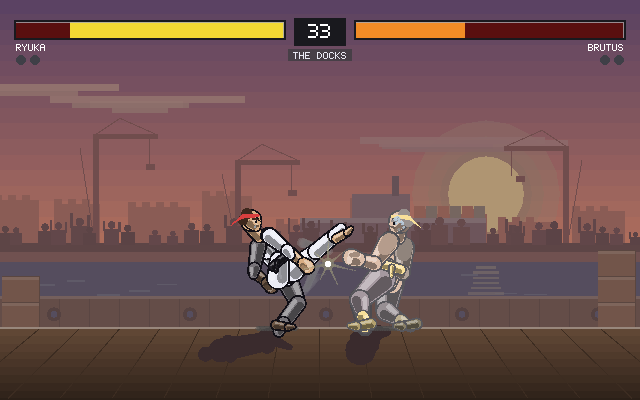
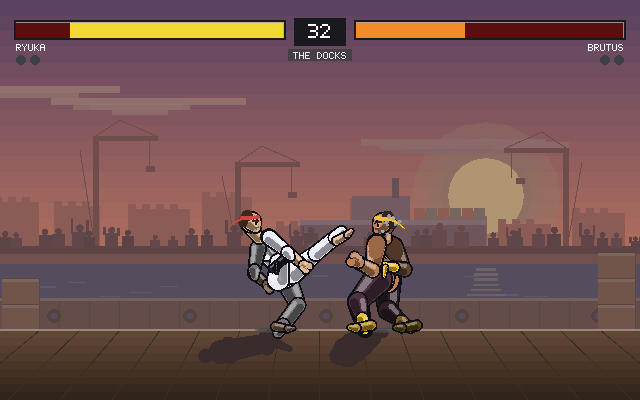
Make the fist a hand and not a glove
The fist was a smooth convex block with a bright band across it and a
bar for a thumb, which is a mitten however it is shaded — a smooth
outline is the whole of what says "glove", and no amount of interior
detail argues with it.

So the outline does the work now. The leading edge is two knuckle
lobes with an ink wedge cut into the split between them, rather than
one unbroken curve. It cannot be three lobes, let alone four: the hand
is eleven pixels across, three of them puts the valleys under a pixel
deep, and the outline — which is nearly two — fills them straight back
in. Two is what the size will carry, and the deep split on a real fist
is the middle one anyway.

The thumb is two segments with a bend in it, because a straight bar is
a strap and a bent one is a digit, and it is drawn LIGHTER than the
fingers behind it. Shading it down to separate it was the reflex and it
is backwards twice over: a thumb wrapped over a fist is the nearest
thing on the hand and catches the most light, and three darker marks on
an eleven-pixel hand come out as one brown smudge, which is exactly
what the first two attempts looked like. One lit shape over a plain one
separates for free. There is a single dark mark left inside the hand,
under the thumb, so it is unambiguously the thumb's own edge.

The wrist wrap is thinner and stops short of the hand. A thick band
running right up to a fist is a boxing glove's cuff, which is the one
thing these hands must not look like.

diff --git a/web/index.html b/web/index.html
@@ -709,7 +709,7 @@
     <a class="card card-brawler" href="brawler/index.html">
       <div class="badge-2p">2<br>PLAYER</div>
       <div class="card-shot-wrap">
-        <img class="card-shot" src="brawler/screenshot.png?v=5" alt="Brawler gameplay">
+        <img class="card-shot" src="brawler/screenshot.png?v=6" alt="Brawler gameplay">
       </div>
       <div class="card-title">BRAWLER</div>
       <div class="card-genre"  data-i18n="brawlerGenre"></div>

diff --git a/crates/brawler/src/draw.rs b/crates/brawler/src/draw.rs
@@ -954,19 +954,50 @@ fn draw_fist(blip: &Blip, h: &Hide, wrist: V, hand: V, b: f32) {
     let at = |f: f32, a: f32| V(hand.0 + fx * f * b + px * a * b,
                                 hand.1 + fy * f * b + py * a * b);
 
-    // The block of the hand: knuckle end forward, heel of the hand back
-    // toward the wrist, and a shade wider than it is long.
-    part(blip, at(-3.2, 0.0), at(2.0, 0.0), 5.4 * b, 6.2 * b, skin, ink);
+    // What separates a fist from a mitten is that its leading edge is
+    // lumpy. A smooth convex outline with a highlight on it is a glove
+    // however it is shaded, which is what this used to be.
+    //
+    // It cannot be four knuckles, or even three. The whole hand is
+    // eleven pixels across; three lobes across eleven pixels put the
+    // valleys between them under a pixel deep, and the ink outline —
+    // which is nearly two — fills them straight back in. Two lobes is
+    // what the size will carry, and two lobes is enough: the deep split
+    // on a real fist is the one in the middle, and a front edge with
+    // one notch in it reads as fingers where a smooth one never will.
+    let heel_a = at(-3.6, 0.0);
+    let heel_b = at(-0.6, 0.0);
+    let (k_lo, k_hi) = (at(1.5, -2.5), at(1.5, 2.5));
+    let kr = 3.3 * b;
 
-    // Two marks on top of it, and neither of them outlined. Anything
-    // drawn on a fist with an ink edge of its own cuts the fist into
-    // pieces — at six pixels across, an outline around a thumb is most
-    // of the thumb. So: one bright band where the knuckles are, one
-    // darker bar for the thumb folded over them, both as bare strokes
-    // that read as the same piece of flesh changing shape.
-    stroke(blip, at(2.9, -3.0), at(2.9, 3.0), 2.2 * b, 2.2 * b,
-           blend(skin, BLIP_WHITE, 0.32));
-    stroke(blip, at(-1.8, 3.6), at(2.4, 1.8), 2.2 * b, 1.8 * b, shade(skin, 0.74));
+    blip.fill_circle(k_lo.0, k_lo.1, kr + 1.7, ink);
+    blip.fill_circle(k_hi.0, k_hi.1, kr + 1.7, ink);
+    part(blip, heel_a, heel_b, 4.2 * b, 4.8 * b, skin, ink);
+    blip.fill_circle(k_lo.0, k_lo.1, kr, skin);
+    blip.fill_circle(k_hi.0, k_hi.1, kr, skin);
+
+    // The split, cut in rather than drawn on: a short ink wedge into
+    // the front edge where the two lobes meet, so the notch survives
+    // the outline instead of being bridged by it.
+    stroke(blip, at(4.2, 0.0), at(2.0, 0.0), 0.7 * b, 0.5 * b, ink);
+
+    // The thumb, laid across the front of the fingers on the near side:
+    // two segments with a bend between them, because one straight bar
+    // is a strap and a bent one is a digit.
+    //
+    // It is LIGHTER than the fingers behind it, not darker. A thumb
+    // wrapped over a fist is the nearest thing on the hand and catches
+    // the most light; shading it down to separate it is the reflex, and
+    // it is backwards — three darker marks on an eleven-pixel hand come
+    // out as one brown smudge, which is what this looked like. One lit
+    // shape over a plain one separates cleanly and costs nothing.
+    let (base, bend, tip) = (at(-2.8, 3.2), at(0.4, 3.6), at(2.6, 2.0));
+    let thumb = blend(skin, BLIP_WHITE, 0.22);
+    stroke(blip, base, bend, 2.2 * b, 2.1 * b, thumb);
+    stroke(blip, bend, tip, 2.1 * b, 1.5 * b, thumb);
+    // And one shadow under it — the only dark mark inside the hand, so
+    // it is unambiguously the thumb's own edge.
+    stroke(blip, at(-2.6, 1.4), at(1.4, 1.7), 0.7 * b, 0.6 * b, shade(skin, 0.64));
 }
 
 /// An open hand: a palm and three fingers, because a grab and a punch
@@ -1047,8 +1078,11 @@ fn draw_arm(blip: &Blip, h: &Hide, shoulder: V, elbow: V, hand: V, open: bool, t
         }
     }
 
-    // Wrist wrap, then the hand on the end of it.
-    stroke(blip, along(elbow, hand, 0.74), along(elbow, hand, 0.92), 3.4 * b, 3.7 * b,
+    // Wrist wrap, then the hand on the end of it. Thin, and stopped
+    // short of the hand: a thick band running right up to a fist is the
+    // cuff of a boxing glove, which is the one thing these hands must
+    // not look like.
+    stroke(blip, along(elbow, hand, 0.70), along(elbow, hand, 0.86), 3.0 * b, 3.2 * b,
         h.c(h.trim));
     if open { draw_palm(blip, h, elbow, hand, b); }
     else { draw_fist(blip, h, elbow, hand, b); }
